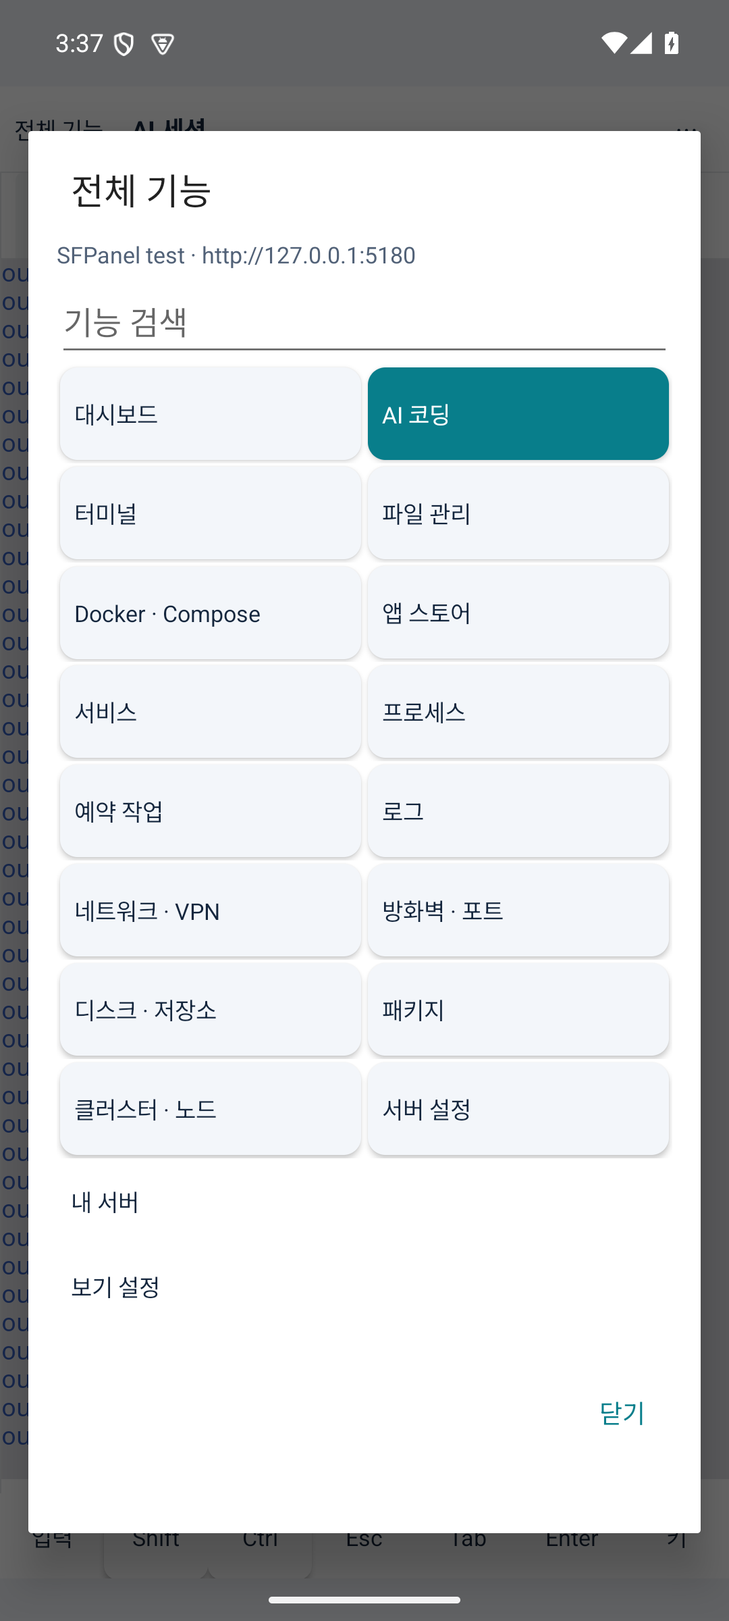
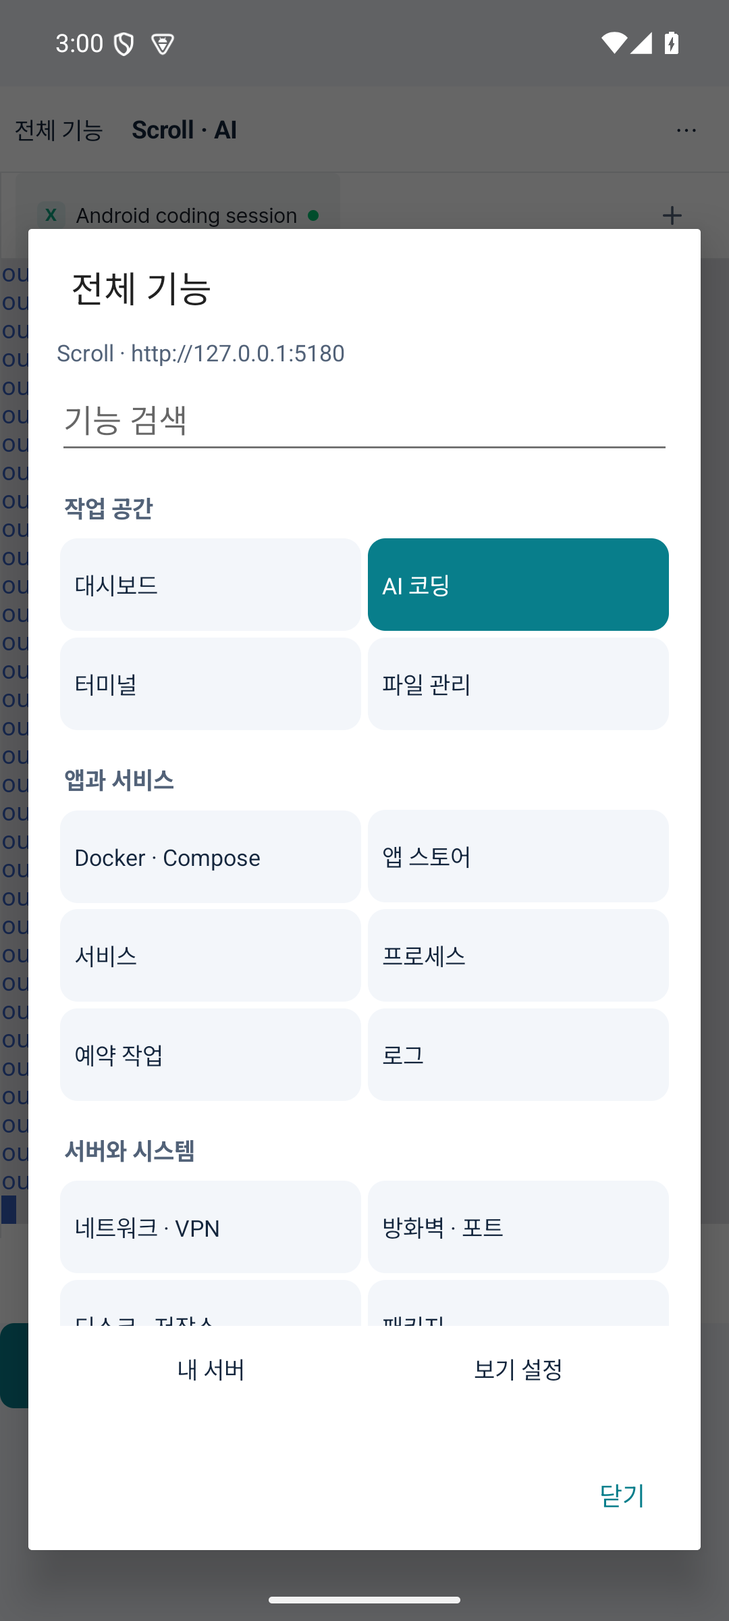
feat(android): server home with search, grouped navigation, and a tabbed key dock

diff --git a/android/app/src/main/java/com/sfpanel/android/MainActivity.java b/android/app/src/main/java/com/sfpanel/android/MainActivity.java
@@ -73,7 +73,9 @@ public final class MainActivity extends Activity {
     private CertificateTrust certificates;
     private AppUpdates updates;
     CertificateTrust certificateTrust() { return certificates; }
-    private LinearLayout terminalBar;
+    private LinearLayout terminalBar, keyDock, keyDockBody;
+    private final Button[] dockTabs = new Button[3];
+    private int dockGroup;
     private boolean shift, ctrl, alt;
     private Button shiftButton, ctrlButton, altButton, moreKeysButton;
     private TextView panelTitle;
@@ -146,8 +148,10 @@ public final class MainActivity extends Activity {
         ScrollView scroll = new ScrollView(this); scroll.setFillViewport(true);
         LinearLayout body = column(); body.setPadding(dp(24), dp(20), dp(24), dp(32));
         scroll.addView(body); root.addView(scroll, new LinearLayout.LayoutParams(-1, -1));
-        body.addView(text("SFPanel", 24, INK, true));
-        body.addView(text(getString(R.string.home_description), 14, MUTED, false));
+        LinearLayout homeHeader = new LinearLayout(this); homeHeader.setGravity(Gravity.CENTER_VERTICAL); body.addView(homeHeader);
+        homeHeader.addView(text("SFPanel", 24, INK, true), new LinearLayout.LayoutParams(0, -2, 1));
+        homeHeader.addView(compactButton(getString(R.string.options), this::showOptions));
+        if (store.list().isEmpty()) body.addView(text(getString(R.string.home_description), 14, MUTED, false));
 
         LinearLayout card = column(); card.setPadding(dp(20), dp(16), dp(20), dp(22)); card.setBackground(surface(Color.WHITE, 24));
         LinearLayout.LayoutParams cardParams = new LinearLayout.LayoutParams(-1, -2); cardParams.topMargin = dp(24);
@@ -164,22 +168,41 @@ public final class MainActivity extends Activity {
         });
         card.addView(connectButton);
         status = text("", 15, MUTED, false); status.setAccessibilityLiveRegion(View.ACCESSIBILITY_LIVE_REGION_POLITE); card.addView(status);
-        LinearLayout savedSection = column(); body.addView(savedSection, 2);
-        savedSection.addView(heading(R.string.saved_servers, 22));
-        savedSection.addView(text(getString(R.string.saved_help), 14, MUTED, false));
+        TextView homeStatus = status; homeStatus.setVisibility(View.GONE);
+        homeStatus.addTextChangedListener(new android.text.TextWatcher() {
+            public void beforeTextChanged(CharSequence s, int start, int count, int after) { }
+            public void onTextChanged(CharSequence s, int start, int before, int count) { homeStatus.setVisibility(s.length() == 0 ? View.GONE : View.VISIBLE); }
+            public void afterTextChanged(android.text.Editable s) { }
+        });
+        LinearLayout savedSection = column(); body.addView(savedSection, body.indexOfChild(card));
+        savedSection.addView(heading(R.string.saved_servers, 18));
+
         if (store.list().isEmpty()) savedSection.addView(text(getString(R.string.empty_servers), 16, MUTED, false));
         for (ServerStore.Server server : store.list()) {
-            LinearLayout saved = column(); saved.setPadding(dp(16), dp(12), dp(16), dp(16)); saved.setBackground(surface(Color.WHITE, 18));
-            LinearLayout.LayoutParams sp = new LinearLayout.LayoutParams(-1, -2); sp.topMargin = dp(12); savedSection.addView(saved, sp);
-            Button open = button(server.name() + "\n" + server.address(), false, () -> requestConnect(server));
-            open.setContentDescription(getString(R.string.open_server, server.name()) + ", " + server.address()); saved.addView(open);
-            Button remove = button(getString(R.string.remove), false, () -> new AlertDialog.Builder(this)
-                    .setTitle(getString(R.string.remove_server, server.name())).setMessage(R.string.remove_message)
-                    .setNegativeButton(R.string.cancel, null).setPositiveButton(R.string.remove, (d, w) -> { store.remove(server); sessions.remove(server.address()); certificates.remove(server.address()); showHome(); }).show());
-            if (certificates.pin(server.address()) != null) saved.addView(button(getString(R.string.forget_certificate), false, () ->
-                    new AlertDialog.Builder(this).setTitle(R.string.forget_certificate).setMessage(server.address())
-                        .setNegativeButton(R.string.cancel, null).setPositiveButton(R.string.remove, (d, w) -> { certificates.remove(server.address()); showHome(); }).show()));
-            remove.setContentDescription(getString(R.string.remove_server, server.name())); saved.addView(remove);
+            LinearLayout saved = new LinearLayout(this); saved.setGravity(Gravity.CENTER_VERTICAL);
+            saved.setPadding(dp(4), dp(4), dp(4), dp(4)); saved.setBackground(surface(Color.WHITE, 14));
+            LinearLayout.LayoutParams sp = new LinearLayout.LayoutParams(-1, -2); sp.topMargin = dp(10); savedSection.addView(saved, sp);
+            Button open = compactButton(server.name() + "\n" + server.address(), () -> requestConnect(server));
+            open.setGravity(Gravity.START | Gravity.CENTER_VERTICAL); open.setPadding(dp(12), dp(4), dp(8), dp(4));
+            open.setMaxLines(2); open.setEllipsize(android.text.TextUtils.TruncateAt.END);
+            open.setContentDescription(getString(R.string.open_server, server.name()) + ", " + server.address());
+            saved.addView(open, new LinearLayout.LayoutParams(0, dp(72), 1));
+            Button menu = compactButton("⋯", () -> {}); menu.setContentDescription(getString(R.string.server_actions, server.name()));
+            menu.setOnClickListener(v -> {
+                android.widget.PopupMenu popup = new android.widget.PopupMenu(this, menu);
+                popup.getMenu().add(0, 1, 0, R.string.remove);
+                if (certificates.pin(server.address()) != null) popup.getMenu().add(0, 2, 1, R.string.forget_certificate);
+                popup.setOnMenuItemClickListener(item -> {
+                    if (item.getItemId() == 1) new AlertDialog.Builder(this)
+                            .setTitle(getString(R.string.remove_server, server.name())).setMessage(R.string.remove_message)
+                            .setNegativeButton(R.string.cancel, null).setPositiveButton(R.string.remove, (d, w) -> { store.remove(server); sessions.remove(server.address()); certificates.remove(server.address()); showHome(); }).show();
+                    else new AlertDialog.Builder(this).setTitle(R.string.forget_certificate).setMessage(server.address())
+                            .setNegativeButton(R.string.cancel, null).setPositiveButton(R.string.remove, (d, w) -> { certificates.remove(server.address()); showHome(); }).show();
+                    return true;
+                });
+                popup.show();
+            });
+            saved.addView(menu, new LinearLayout.LayoutParams(dp(48), dp(48)));
         }
         if (!store.list().isEmpty()) {
             card.setVisibility(View.GONE);
@@ -187,8 +210,7 @@ public final class MainActivity extends Activity {
             body.addView(addServer, body.indexOfChild(card));
         }
         card.removeView(status); body.addView(status, body.indexOfChild(card));
-        body.addView(button(getString(R.string.options), false, this::showOptions));
-        body.addView(text(getString(R.string.privacy_help), 14, MUTED, false));
+        body.addView(text(getString(R.string.privacy_help), 12, MUTED, false));
     }
 
     private EditText field(LinearLayout parent, int label, int hint, boolean address) {
@@ -342,7 +364,8 @@ public final class MainActivity extends Activity {
     private void addTerminalBar() {
         terminalBar = column(); terminalBar.setBackgroundColor(Color.WHITE); terminalBar.setVisibility(View.GONE); root.addView(terminalBar);
         LinearLayout row = new LinearLayout(this); terminalBar.addView(row);
-        row.addView(compactButton(getString(R.string.input_short), () -> compose("")));
+        Button write = compactButton(getString(R.string.input_short), () -> compose(""));
+        write.setContentDescription(getString(R.string.write_prompt)); row.addView(write);
         shiftButton = compactButton("Shift", () -> { shift = !shift; updateModifiers(); }); row.addView(shiftButton);
         ctrlButton = compactButton("Ctrl", () -> { ctrl = !ctrl; updateModifiers(); }); row.addView(ctrlButton);
         row.addView(compactButton("Esc", () -> sendKey("\u001b")));
@@ -351,29 +374,69 @@ public final class MainActivity extends Activity {
         moreKeysButton = compactButton(getString(R.string.keys_short), this::showKeypad);
         moreKeysButton.setContentDescription(getString(R.string.keys_more)); row.addView(moreKeysButton);
         for (int i = 0; i < row.getChildCount(); i++) row.getChildAt(i).setLayoutParams(new LinearLayout.LayoutParams(0, dp(48), 1));
+        keyDock = column(); keyDock.setBackgroundColor(BG); keyDock.setVisibility(View.GONE); terminalBar.addView(keyDock);
+        LinearLayout tabs = new LinearLayout(this); keyDock.addView(tabs);
+        int[] groups = {R.string.dock_move, R.string.dock_shortcuts, R.string.dock_output};
+        for (int i = 0; i < groups.length; i++) {
+            final int group = i;
+            dockTabs[i] = compactButton(getString(groups[i]), () -> { dockGroup = group; renderKeyDock(); });
+            tabs.addView(dockTabs[i], new LinearLayout.LayoutParams(0, dp(48), 1));
+        }
+        keyDockBody = column(); keyDock.addView(keyDockBody);
+        renderKeyDock();
     }
     private void showKeypad() {
-        LinearLayout body = column(); body.setPadding(dp(12), dp(8), dp(12), dp(8));
-        AlertDialog dialog = new AlertDialog.Builder(this).setTitle(R.string.terminal_controls).setView(body).setNegativeButton(R.string.close, null).create();
-        String[][] labels = {{"Alt", "↑", "PgUp", "Home"}, {"←", "↓", "→", "End"}, {"Ctrl+C", "Ctrl+D", "Ctrl+Z", "PgDn"}};
-        String[][] codes = {{"", "\u001b[A", "\u001b[5~", "\u001b[H"}, {"\u001b[D", "\u001b[B", "\u001b[C", "\u001b[F"}, {"\u0003", "\u0004", "\u001a", "\u001b[6~"}};
-        for (int i = 0; i < labels.length; i++) {
-            LinearLayout row = new LinearLayout(this); body.addView(row);
-            for (int j = 0; j < labels[i].length; j++) {
-                String label = labels[i][j], code = codes[i][j];
-                Button key = compactButton(label, () -> { if (label.equals("Alt")) { alt = !alt; updateModifiers(); dialog.dismiss(); } else { if (label.startsWith("Ctrl+")) { shift = false; ctrl = false; alt = false; } sendKey(code); } });
-                int description = switch (label) { case "↑" -> R.string.key_up; case "↓" -> R.string.key_down; case "←" -> R.string.key_left; case "→" -> R.string.key_right; default -> 0; };
-                if (description != 0) key.setContentDescription(getString(description));
-                row.addView(key, new LinearLayout.LayoutParams(0, dp(48), 1));
-            }
+        if (keyDock == null) return;
+        setKeyDockOpen(keyDock.getVisibility() != View.VISIBLE);
+    }
+    private void setKeyDockOpen(boolean open) {
+        if (keyDock == null) return;
+        keyDock.setVisibility(open ? View.VISIBLE : View.GONE);
+        moreKeysButton.setText(getString(open ? R.string.collapse_tools : R.string.keys_short));
+        moreKeysButton.setContentDescription(getString(open ? R.string.collapse_tools : R.string.keys_more));
+        moreKeysButton.setSelected(open);
+        if (android.os.Build.VERSION.SDK_INT >= 30) moreKeysButton.setStateDescription(getString(open ? R.string.expanded : R.string.collapsed));
+    }
+    private void renderKeyDock() {
+        keyDockBody.removeAllViews(); altButton = null;
+        for (int i = 0; i < dockTabs.length; i++) {
+            dockTabs[i].setSelected(i == dockGroup);
+            dockTabs[i].setTextColor(i == dockGroup ? Color.WHITE : INK);
+            dockTabs[i].setBackground(surface(i == dockGroup ? TEAL : BG, 8));
         }
-        LinearLayout history = new LinearLayout(this); body.addView(history);
-        history.addView(compactButton(getString(R.string.scroll_up), () -> scroll(-1)), new LinearLayout.LayoutParams(0, dp(48), 1));
-        history.addView(compactButton(getString(R.string.scroll_down), () -> scroll(1)), new LinearLayout.LayoutParams(0, dp(48), 1));
-        history.addView(compactButton(getString(R.string.scroll_bottom), () -> scroll(0)), new LinearLayout.LayoutParams(0, dp(48), 1));
-        body.addView(compactButton(getString(R.string.read_output), () -> { dialog.dismiss(); readOutput(); }));
-        body.addView(compactButton(getString(R.string.search_output), () -> { dialog.dismiss(); searchOutput(); }));
-        dialog.show();
+        if (dockGroup == 0) {
+            addDockKeys(new String[]{"←", "↑", "↓", "→"}, new String[]{"\u001b[D", "\u001b[A", "\u001b[B", "\u001b[C"});
+            addDockKeys(new String[]{"Home", "End", "PgUp", "PgDn"}, new String[]{"\u001b[H", "\u001b[F", "\u001b[5~", "\u001b[6~"});
+        } else if (dockGroup == 1) {
+            addDockKeys(new String[]{"Alt", "Shift+Tab", "Shift+Enter"}, new String[]{"", "\u001b[Z", "\u001b[13;2u"});
+            addDockKeys(new String[]{"Ctrl+C", "Ctrl+D", "Ctrl+Z"}, new String[]{"\u0003", "\u0004", "\u001a"});
+        } else {
+            LinearLayout history = new LinearLayout(this); keyDockBody.addView(history);
+            history.addView(compactButton(getString(R.string.scroll_up), () -> scroll(-1)), new LinearLayout.LayoutParams(0, dp(48), 1));
+            history.addView(compactButton(getString(R.string.scroll_down), () -> scroll(1)), new LinearLayout.LayoutParams(0, dp(48), 1));
+            history.addView(compactButton(getString(R.string.scroll_bottom), () -> scroll(0)), new LinearLayout.LayoutParams(0, dp(48), 1));
+            LinearLayout actions = new LinearLayout(this); keyDockBody.addView(actions);
+            actions.addView(compactButton(getString(R.string.read_output), () -> { setKeyDockOpen(false); readOutput(); }), new LinearLayout.LayoutParams(0, dp(48), 1));
+            actions.addView(compactButton(getString(R.string.search_output), () -> { setKeyDockOpen(false); searchOutput(); }), new LinearLayout.LayoutParams(0, dp(48), 1));
+        }
+        updateModifiers();
+    }
+    private void addDockKeys(String[] labels, String[] codes) {
+        LinearLayout row = new LinearLayout(this); keyDockBody.addView(row);
+        for (int i = 0; i < labels.length; i++) {
+            String label = labels[i], code = codes[i];
+            Button key = compactButton(label, () -> {
+                if (label.equals("Alt")) { alt = !alt; updateModifiers(); }
+                else {
+                    if (label.startsWith("Ctrl+") || label.startsWith("Shift+")) { shift = false; ctrl = false; alt = false; }
+                    sendKey(code);
+                }
+            });
+            if (label.equals("Alt")) altButton = key;
+            int description = switch (label) { case "↑" -> R.string.key_up; case "↓" -> R.string.key_down; case "←" -> R.string.key_left; case "→" -> R.string.key_right; default -> 0; };
+            if (description != 0) key.setContentDescription(getString(description));
+            row.addView(key, new LinearLayout.LayoutParams(0, dp(48), 1));
+        }
     }
     private void showNavigation() {
         String[] paths = {"/dashboard", "/ai", "/terminal", "/files", "/docker", "/appstore", "/services", "/processes", "/cron", "/logs", "/network", "/firewall", "/disk", "/packages", "/cluster", "/settings"};
@@ -383,31 +446,48 @@ public final class MainActivity extends Activity {
         EditText search = new EditText(this); search.setSingleLine(true); search.setHint(R.string.find_feature); search.setContentDescription(getString(R.string.find_feature)); search.setMinHeight(dp(48)); body.addView(search);
         ScrollView scroll = new ScrollView(this); LinearLayout entries = column(); scroll.addView(entries); body.addView(scroll, new LinearLayout.LayoutParams(-1, 0, 1));
         AlertDialog dialog = new AlertDialog.Builder(this).setTitle(R.string.all_features).setView(body).setNegativeButton(R.string.close, null).create();
-        java.util.List<Button> buttons = new java.util.ArrayList<>();
-        LinearLayout row = null;
-        for (int i = 0; i < paths.length; i++) {
-            if (i % 2 == 0) { row = new LinearLayout(this); entries.addView(row); }
-            String path = paths[i]; Button item = compactButton(names[i], () -> { dialog.dismiss(); navigate(path); });
-            item.setGravity(Gravity.START | Gravity.CENTER_VERTICAL); item.setMaxLines(2);
+        Runnable render = () -> {
+            entries.removeAllViews();
+            String query = search.getText().toString().trim().toLowerCase(java.util.Locale.ROOT);
             String pagePath = web == null || web.getUrl() == null ? null : Uri.parse(web.getUrl()).getPath();
-            boolean selected = path.equals(pagePath) || (pagePath != null && pagePath.startsWith(path + "/"));
-            item.setBackground(surface(selected ? TEAL : BG, 10)); item.setTextColor(selected ? Color.WHITE : INK);
-            LinearLayout.LayoutParams cell = new LinearLayout.LayoutParams(0, dp(52), 1); cell.setMargins(dp(2), dp(2), dp(2), dp(2));
-            row.addView(item, cell); buttons.add(item);
-        }
+            int[] headings = {R.string.nav_work, R.string.nav_services, R.string.nav_system};
+            int[] starts = {0, 4, 10, paths.length};
+            int matches = 0;
+            for (int group = 0; group < headings.length; group++) {
+                LinearLayout row = null;
+                int count = 0;
+                for (int i = starts[group]; i < starts[group + 1]; i++) {
+                    if (!(names[i] + " " + paths[i]).toLowerCase(java.util.Locale.ROOT).contains(query)) continue;
+                    if (count == 0) {
+                        TextView heading = text(getString(headings[group]), 13, MUTED, true);
+                        heading.setPadding(dp(4), dp(16), dp(4), dp(6));
+                        if (android.os.Build.VERSION.SDK_INT >= 28) heading.setAccessibilityHeading(true); entries.addView(heading);
+                    }
+                    if (count % 2 == 0) { row = new LinearLayout(this); entries.addView(row); }
+                    String path = paths[i]; Button item = compactButton(names[i], () -> { dialog.dismiss(); navigate(path); });
+                    item.setGravity(Gravity.START | Gravity.CENTER_VERTICAL); item.setMaxLines(2);
+                    boolean selected = path.equals(pagePath) || (pagePath != null && pagePath.startsWith(path + "/"));
+                    item.setSelected(selected); item.setBackground(surface(selected ? TEAL : BG, 10)); item.setTextColor(selected ? Color.WHITE : INK);
+                    LinearLayout.LayoutParams cell = new LinearLayout.LayoutParams(0, dp(52), 1); cell.setMargins(dp(2), dp(2), dp(2), dp(2));
+                    row.addView(item, cell); count++; matches++;
+                }
+                if (count % 2 == 1) row.addView(new View(this), new LinearLayout.LayoutParams(0, dp(52), 1));
+            }
+            if (matches == 0) entries.addView(text(getString(R.string.no_features), 15, MUTED, false));
+        };
         search.addTextChangedListener(new android.text.TextWatcher() {
             public void beforeTextChanged(CharSequence s, int start, int count, int after) { }
-            public void onTextChanged(CharSequence s, int start, int before, int count) {
-                String query = s.toString().toLowerCase(java.util.Locale.ROOT);
-                for (int i = 0; i < buttons.size(); i++) buttons.get(i).setVisibility((names[i] + " " + paths[i]).toLowerCase(java.util.Locale.ROOT).contains(query) ? View.VISIBLE : View.GONE);
-            }
+            public void onTextChanged(CharSequence s, int start, int before, int count) { render.run(); }
             public void afterTextChanged(android.text.Editable s) { }
         });
-        body.addView(compactButton(getString(R.string.servers), () -> { dialog.dismiss(); confirmHome(); }));
-        body.addView(compactButton(getString(R.string.options), () -> { dialog.dismiss(); showOptions(); }));
+        render.run();
+        LinearLayout footer = new LinearLayout(this); body.addView(footer);
+        footer.addView(compactButton(getString(R.string.servers), () -> { dialog.dismiss(); confirmHome(); }), new LinearLayout.LayoutParams(0, dp(48), 1));
+        footer.addView(compactButton(getString(R.string.options), () -> { dialog.dismiss(); showOptions(); }), new LinearLayout.LayoutParams(0, dp(48), 1));
         if (web != null) ((InputMethodManager) getSystemService(INPUT_METHOD_SERVICE)).hideSoftInputFromWindow(web.getWindowToken(), 0);
         dialog.setOnShowListener(d -> {
-            dialog.getWindow().setLayout(-1, (int) (getResources().getDisplayMetrics().heightPixels * .9));
+            dialog.getWindow().setGravity(Gravity.BOTTOM);
+            dialog.getWindow().setLayout(-1, (int) (getResources().getDisplayMetrics().heightPixels * .85));
             dialog.getWindow().setSoftInputMode(android.view.WindowManager.LayoutParams.SOFT_INPUT_STATE_ALWAYS_HIDDEN | android.view.WindowManager.LayoutParams.SOFT_INPUT_ADJUST_RESIZE);
         });
         dialog.show();
@@ -417,10 +497,11 @@ public final class MainActivity extends Activity {
         String path = Uri.parse(url).getPath();
         if (panelTitle != null && current != null) panelTitle.setText(current.name() + ("/ai".equals(path) ? " · AI" : "/terminal".equals(path) ? " · " + getString(R.string.terminal) : ""));
         terminalBar.setVisibility("/ai".equals(path) || "/terminal".equals(path) ? View.VISIBLE : View.GONE);
+        if (terminalBar.getVisibility() != View.VISIBLE) setKeyDockOpen(false);
         shift = false; ctrl = false; alt = false; updateModifiers();
     }
     private void updateModifiers() {
-        if (moreKeysButton != null) moreKeysButton.setText(alt ? "Alt" : getString(R.string.keys_short));
+        if (moreKeysButton != null && keyDock != null) moreKeysButton.setText(getString(keyDock.getVisibility() == View.VISIBLE ? R.string.collapse_tools : R.string.keys_short));
         Button[] buttons = {shiftButton, ctrlButton, altButton}; boolean[] values = {shift, ctrl, alt};
         for (int i = 0; i < buttons.length; i++) {
             if (buttons[i] == null) continue;
@@ -486,10 +567,19 @@ public final class MainActivity extends Activity {
             switch (which + (ai ? 0 : 2)) {
                 case 0 -> evaluate("document.documentElement.toggleAttribute('data-ai-tools-open');window.dispatchEvent(new Event('resize'));return true;", null);
                 case 1 -> evaluate("const tab=document.querySelector('[role=tab][aria-selected=true]');if(!tab)return false;const r=tab.getBoundingClientRect();tab.dispatchEvent(new MouseEvent('contextmenu',{bubbles:true,clientX:r.x+r.width/2,clientY:r.bottom}));return true;", result -> { if (!"true".equals(result)) toast(R.string.no_session); });
-                case 2 -> evaluate(ACTIVE + "if(!t)return false;t.focus();return true;", result -> {
-                    if (!"true".equals(result)) toast(R.string.no_session);
-                    else if (web != null) { web.requestFocus(); ((InputMethodManager) getSystemService(INPUT_METHOD_SERVICE)).showSoftInput(web, InputMethodManager.SHOW_IMPLICIT); }
-                });
+                case 2 -> {
+                    WebView target = web;
+                    // The menu window must release focus before the WebView
+                    // becomes the IME target; otherwise Show keyboard is ignored.
+                    if (target != null) target.postDelayed(() -> {
+                        if (web != target) return;
+                        target.requestFocus();
+                        evaluate(ACTIVE + "if(!t)return false;t.focus();return true;", result -> {
+                            if (!"true".equals(result)) toast(R.string.no_session);
+                            else if (web == target) ((InputMethodManager) getSystemService(INPUT_METHOD_SERVICE)).showSoftInput(target, InputMethodManager.SHOW_IMPLICIT);
+                        });
+                    }, 200);
+                }
                 case 3 -> {
                     ClipboardManager clipboard = (ClipboardManager) getSystemService(CLIPBOARD_SERVICE);
                     ClipData clip = clipboard.getPrimaryClip();
@@ -592,7 +682,7 @@ public final class MainActivity extends Activity {
         new AlertDialog.Builder(this).setTitle(R.string.leave_title).setMessage(R.string.leave_message)
                 .setNegativeButton(R.string.cancel, null).setPositiveButton(R.string.continue_action, (d, w) -> showHome()).show();
     }
-    private void goBack() { if (web != null && web.canGoBack()) web.goBack(); else if (web != null) confirmHome(); else finish(); }
+    private void goBack() { if (web != null && keyDock != null && keyDock.getVisibility() == View.VISIBLE) setKeyDockOpen(false); else if (web != null && web.canGoBack()) web.goBack(); else if (web != null) confirmHome(); else finish(); }
     // API 33+ uses OnBackInvokedDispatcher registered in onCreate; this is
     // deliberately only the API 26–32 fallback and has the identical behavior.
     @SuppressLint("GestureBackNavigation")

diff --git a/android/TESTING.md b/android/TESTING.md
@@ -61,3 +61,11 @@ Lint 경고는 동적 LAN 서버를 위한 HTTP 허용, 사용자가 설치한 C
 - 0.1.3에서 사용한 단순 WebSocket fixture가 tmux의 alternate buffer와 `mouse off` 조합을 재현하지 못했습니다. 앱만으로 AI 스크롤 문제가 해결된다는 기존 안내를 정정합니다.
 - 실제 tmux PTY를 연결한 Playwright 터치 테스트에서 서버의 기존 `mouse off` 설정은 웹·Android 자산 모두 실패했습니다. `mouse on` 적용 후 화면 첫 줄이 과거 출력으로 이동하고 반대 스와이프로 최신 출력으로 돌아오는 검사가 모두 통과했습니다. 테스트는 임시 tmux 소켓과 숫자 출력 프로그램만 사용합니다.
 - Go 통합 테스트는 기존 `mouse off` 세션에 실제 attach 명령으로 재접속한 뒤 휠 입력에 따른 tmux history position 변화와 live mode 복귀를 검증합니다. CI에서 tmux를 설치해 이 검사를 실행합니다.
+
+## 0.1.4 접이식 도구·탐색
+
+- API 35 실제 앱에서 도구 펼침 → 방향키 전송(`ESC[A`), 조합키 → Shift+Enter(`ESC[13;2u`), 뒤로 가기 → 도구 접힘을 확인했습니다. 임시 WebSocket fixture만 사용했습니다.
+- 키보드를 켜고도 터미널과 도구를 함께 조작할 수 있으며 기본 키 48dp + 펼친 도구 144dp의 높이를 확인했습니다. 3개 도구 탭에서 각 조작을 분리합니다.
+- 전체 기능의 분류, `docker` 검색 결과, 일치 항목이 없는 안내를 확인했습니다. 서버 삭제는 서버별 메뉴로 옮겼습니다.
+- `키보드 열기`가 메뉴 창의 포커스 때문에 무시되는 것을 재현했습니다. 메뉴 닫힘 후 WebView → xterm 순으로 포커스를 넘긴 뒤 IME 표시 상태를 확인했습니다.
+- Android debug/release 단위 테스트 12개, Lint, APK 빌드를 실행했습니다. 실제 휴대폰·큰 글꼴·TalkBack 검증은 별도로 필요합니다.

diff --git a/README.md b/README.md
@@ -314,7 +314,7 @@ sudo systemctl start sfpanel
 
 Android 8.0 이상에서 서버 연결과 전체 웹 관리 화면을 사용할 수 있습니다. 터미널·AI 코딩을 위한 Shift/Ctrl/Alt 키, 출력 기록 이동, 여러 줄 프롬프트 편집, 출력 읽기·검색을 제공합니다. 큰 터치 영역, 시스템 글자 크기, TalkBack 레이블과 한국어/영어를 지원합니다.
 
-빌드·설치 방법과 검증 범위는 [Android 앱 안내](android/README.md)를 참고하세요. [GitHub 릴리즈](https://github.com/svrforum/SFPanel/releases/tag/android-v0.1.3)에서 서명된 APK를 받을 수 있습니다. `android-v*` 태그를 push하면 테스트와 서명 검증 후 자동 배포됩니다.
+빌드·설치 방법과 검증 범위는 [Android 앱 안내](android/README.md)를 참고하세요. [GitHub 릴리즈](https://github.com/svrforum/SFPanel/releases/tag/android-v0.1.4)에서 서명된 APK를 받을 수 있습니다. `android-v*` 태그를 push하면 테스트와 서명 검증 후 자동 배포됩니다.
 
 ## 데스크탑 앱 (Tauri)
 
